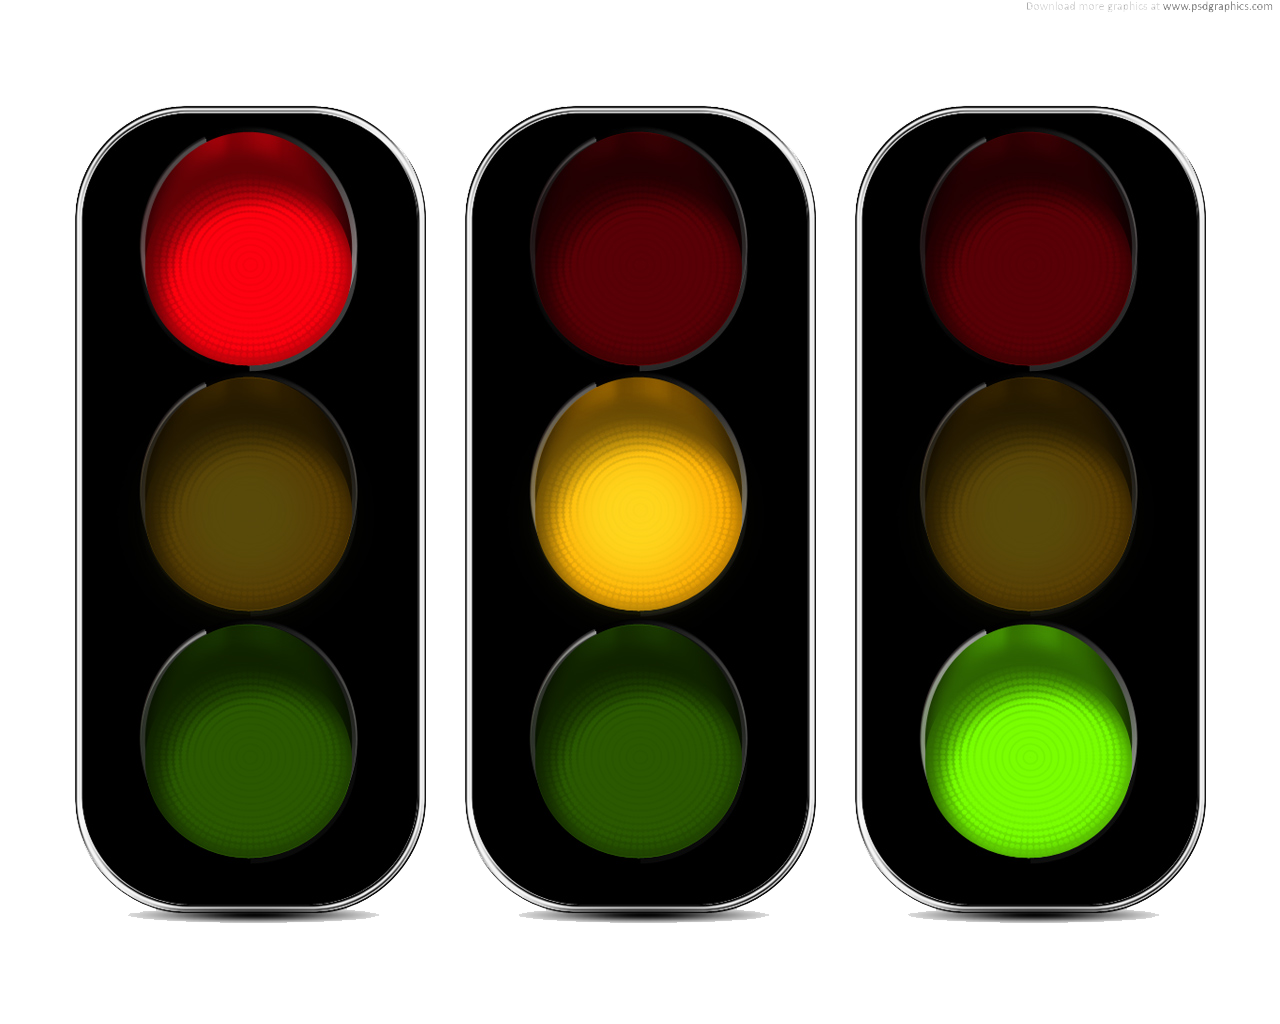
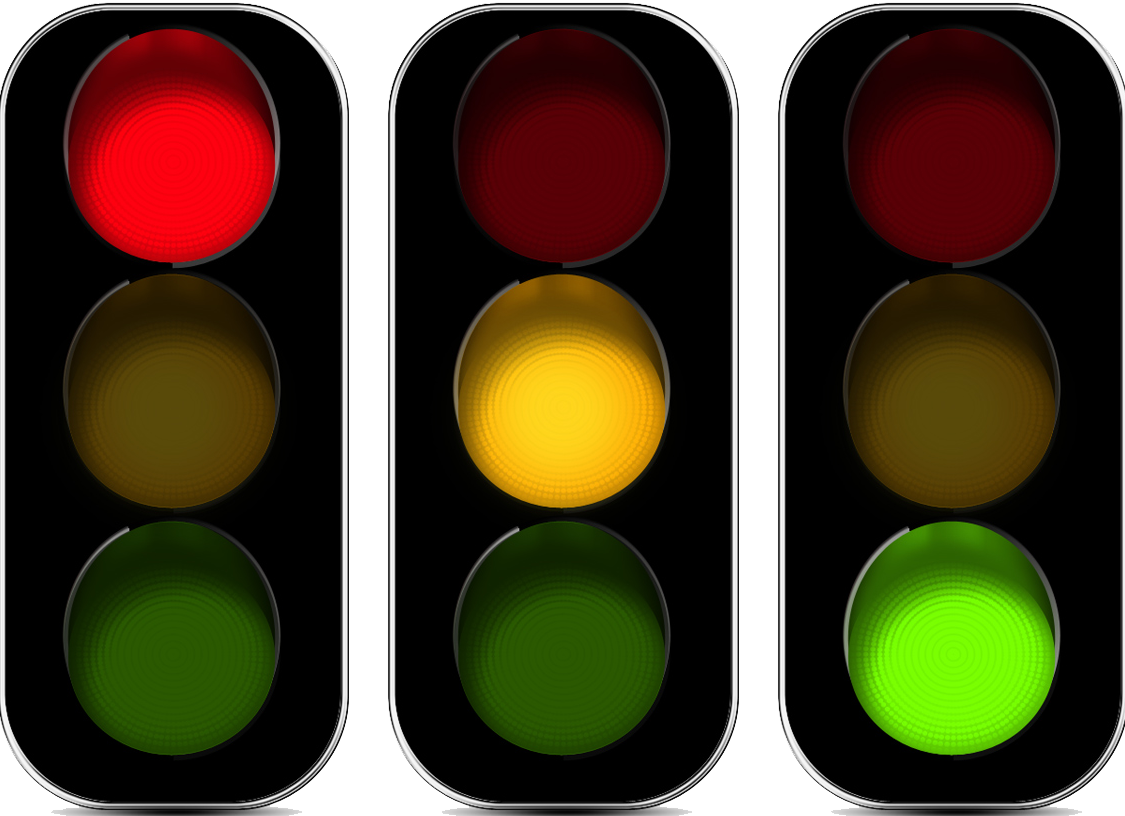
fix detail with traffic light

diff --git a/game.py b/game.py
@@ -95,6 +95,8 @@ def game(game_mode):
         
         SECOND_EVENT = pygame.USEREVENT + 1
         
+
+        trafficlight = pygame.sprite.GroupSingle(TrafficLight(300,SCREEN_WIDTH,SCREEN_HEIGHT)) 
         pygame.time.set_timer(SECOND_EVENT,1000)
         index = 0
         start_sound.play()
@@ -104,15 +106,17 @@ def game(game_mode):
                     pygame.quit()
                     sys.exit()
                 if event.type == SECOND_EVENT:
+                    trafficlight.update()
                     index += 1
-                    if index == len(starter_texts):
+                    if index == 3:
                         pygame.time.set_timer(SECOND_EVENT,0)
                         return
 
 
             screen.fill(BGCOLOR)
 
-            screen.blit(starter_texts[index],(SCREEN_WIDTH//2 - starter_texts[index].get_width()//2,SCREEN_HEIGHT//2 - starter_texts[index].get_height()//2))
+            #screen.blit(starter_texts[index],(SCREEN_WIDTH//2 - starter_texts[index].get_width()//2,SCREEN_HEIGHT//2 - starter_texts[index].get_height()//2))
+            trafficlight.draw(screen)
             pygame.display.update()
 
 
@@ -414,7 +418,7 @@ def menu():
     buttons = pygame.sprite.Group(start_button,high_scores_button)
 
     
-    trafficlight = pygame.sprite.GroupSingle(TrafficLight(200,100,200)) # arbitrary numbers
+    #trafficlight = pygame.sprite.GroupSingle(TrafficLight(200,100,200)) # arbitrary numbers
 
     
 
@@ -447,7 +451,6 @@ def menu():
         
             
         buttons.draw(screen)
-        trafficlight.draw(screen)
         screen.blit(title_text,title_rect)
         pygame.display.update()
 

diff --git a/light.py b/light.py
@@ -8,29 +8,41 @@ from spritesheet import load_images
 
 class TrafficLight(pygame.sprite.Sprite):
     
-    file_name = 'trafficlight.png'
+    file_name = 'trafficlight4.png'
 
-    def __init__(self,x,y,width):
+    def __init__(self,width,screen_width,screen_height):
         super().__init__()
 
         self._get_images(width)
         self.image = self.images[0]
-        self.rect = self.image.get_rect(topleft=(x,y))
+        self.image_index = 0
+        self.screen_width = screen_width
+        self.screen_height = screen_height
+
+        self.rect = self.image.get_rect(topleft=(screen_width//2 - self.image.get_width()//2,screen_height//2 - self.image.get_height()//2))
 
 
     def _get_images(self,width):
         
-        original_width = 1280//3
+        original_width = 1176//3
         original_height = 1024
 
         aspect_ratio = width/original_width
 
-        self.images = load_images(self.file_name,1,3,1280//3,1024)
+        self.images = load_images(self.file_name,1,3,1176//3,1024)
 
         
         for i, image in enumerate(self.images):
             image = pygame.transform.scale(image,(width,int(aspect_ratio * original_height)))
             self.images[i] = image
+
+    
+    def update(self):
+
+        self.image_index = (self.image_index + 1) % len(self.images)
+        self.image = self.images[self.image_index]
+        self.rect = self.image.get_rect(topleft=(self.screen_width//2 - self.image.get_width()//2,self.screen_height//2 - self.image.get_height()//2))
+
 
 
 
